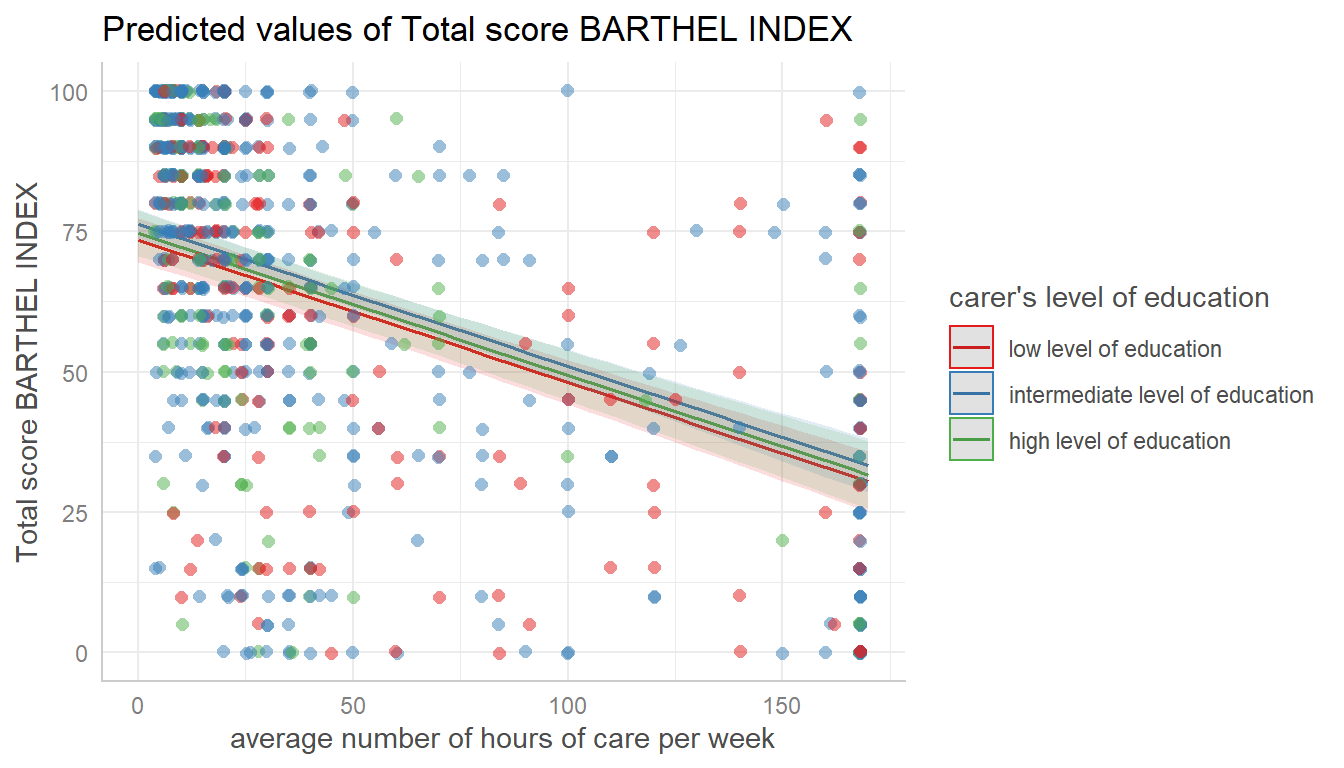
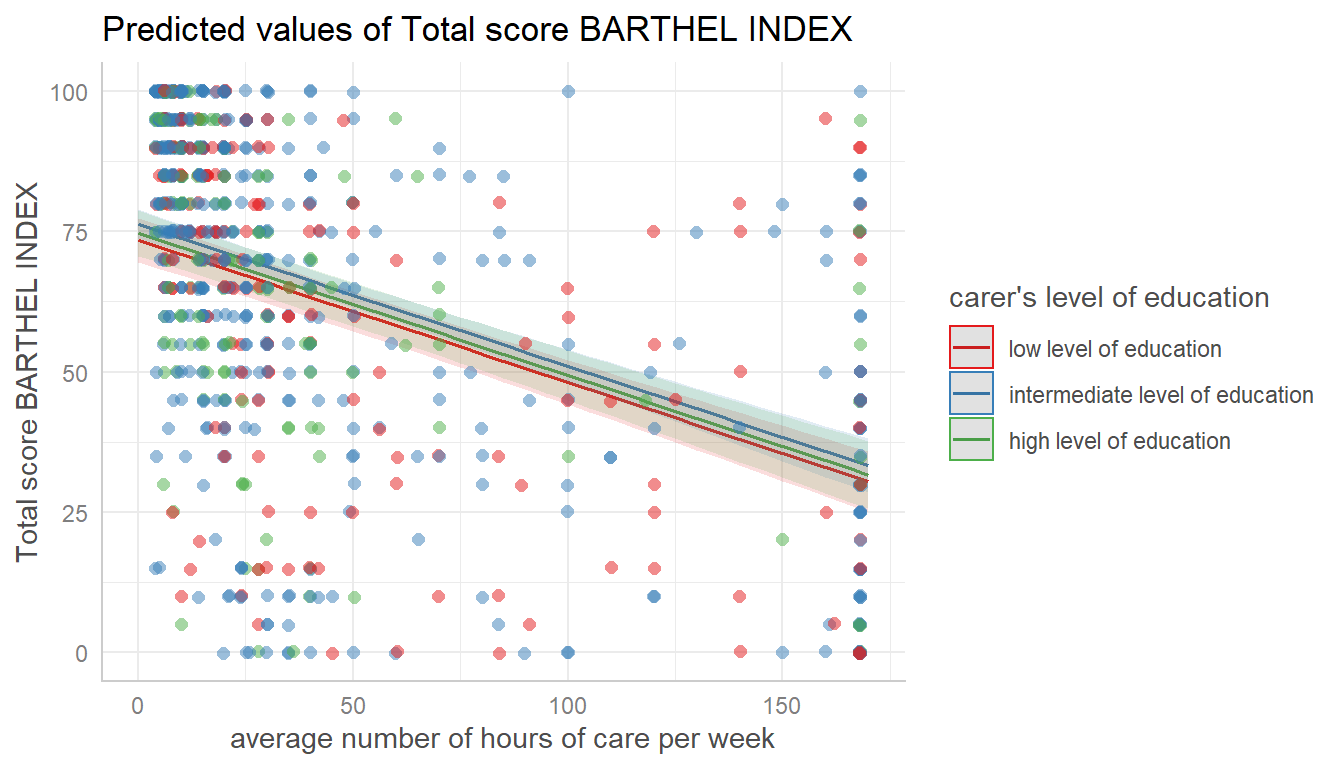
update website

diff --git a/docs/articles/introduction_randomeffects.html b/docs/articles/introduction_randomeffects.html
@@ -133,7 +133,7 @@
       <h1>Introduction: Marginal Effects for Random Effects Models</h1>
                         <h4 class="author">Daniel Lüdecke</h4>
             
-            <h4 class="date">2019-10-23</h4>
+            <h4 class="date">2019-10-28</h4>
       
       
       <div class="hidden name"><code>introduction_randomeffects.Rmd</code></div>
@@ -218,14 +218,14 @@
 <a class="sourceLine" id="cb4-4" title="4"><span class="co">#&gt; # x = Days</span></a>
 <a class="sourceLine" id="cb4-5" title="5"><span class="co">#&gt; </span></a>
 <a class="sourceLine" id="cb4-6" title="6"><span class="co">#&gt;  x predicted std.error conf.low conf.high</span></a>
-<a class="sourceLine" id="cb4-7" title="7"><span class="co">#&gt;  0   251.662    25.683  201.767   302.572</span></a>
-<a class="sourceLine" id="cb4-8" title="8"><span class="co">#&gt;  1   261.798    25.674  211.377   312.102</span></a>
-<a class="sourceLine" id="cb4-9" title="9"><span class="co">#&gt;  2   272.485    25.620  223.424   322.492</span></a>
-<a class="sourceLine" id="cb4-10" title="10"><span class="co">#&gt;  3   282.850    25.798  232.746   333.342</span></a>
-<a class="sourceLine" id="cb4-11" title="11"><span class="co">#&gt;  5   303.824    25.646  253.433   353.809</span></a>
-<a class="sourceLine" id="cb4-12" title="12"><span class="co">#&gt;  6   314.204    25.635  263.891   363.755</span></a>
-<a class="sourceLine" id="cb4-13" title="13"><span class="co">#&gt;  7   324.440    25.758  273.801   374.102</span></a>
-<a class="sourceLine" id="cb4-14" title="14"><span class="co">#&gt;  9   345.318    25.488  295.697   394.967</span></a>
+<a class="sourceLine" id="cb4-7" title="7"><span class="co">#&gt;  0   251.368    25.463  201.710   300.924</span></a>
+<a class="sourceLine" id="cb4-8" title="8"><span class="co">#&gt;  1   262.008    25.338  212.616   311.985</span></a>
+<a class="sourceLine" id="cb4-9" title="9"><span class="co">#&gt;  2   272.596    25.685  222.381   323.076</span></a>
+<a class="sourceLine" id="cb4-10" title="10"><span class="co">#&gt;  3   282.790    25.591  233.127   333.301</span></a>
+<a class="sourceLine" id="cb4-11" title="11"><span class="co">#&gt;  5   303.978    25.770  253.803   354.281</span></a>
+<a class="sourceLine" id="cb4-12" title="12"><span class="co">#&gt;  6   314.304    25.395  264.709   364.274</span></a>
+<a class="sourceLine" id="cb4-13" title="13"><span class="co">#&gt;  7   324.717    25.574  275.474   375.016</span></a>
+<a class="sourceLine" id="cb4-14" title="14"><span class="co">#&gt;  9   345.731    25.748  295.587   395.939</span></a>
 <a class="sourceLine" id="cb4-15" title="15"><span class="co">#&gt; </span></a>
 <a class="sourceLine" id="cb4-16" title="16"><span class="co">#&gt; Adjusted for:</span></a>
 <a class="sourceLine" id="cb4-17" title="17"><span class="co">#&gt; * Subject = 0 (population-level)</span></a></code></pre></div>
@@ -292,13 +292,13 @@
 <a class="sourceLine" id="cb7-4" title="4"><span class="co">#&gt; # x = spp</span></a>
 <a class="sourceLine" id="cb7-5" title="5"><span class="co">#&gt; </span></a>
 <a class="sourceLine" id="cb7-6" title="6"><span class="co">#&gt;      x predicted std.error conf.low conf.high</span></a>
-<a class="sourceLine" id="cb7-7" title="7"><span class="co">#&gt;     GP     0.138     0.045    0.046     0.230</span></a>
-<a class="sourceLine" id="cb7-8" title="8"><span class="co">#&gt;     PR     0.017     0.009    0.000     0.035</span></a>
-<a class="sourceLine" id="cb7-9" title="9"><span class="co">#&gt;     DM     0.245     0.076    0.097     0.393</span></a>
-<a class="sourceLine" id="cb7-10" title="10"><span class="co">#&gt;   EC-A     0.042     0.018    0.008     0.075</span></a>
-<a class="sourceLine" id="cb7-11" title="11"><span class="co">#&gt;   EC-L     0.374     0.117    0.152     0.596</span></a>
-<a class="sourceLine" id="cb7-12" title="12"><span class="co">#&gt;  DES-L     0.433     0.116    0.201     0.664</span></a>
-<a class="sourceLine" id="cb7-13" title="13"><span class="co">#&gt;     DF     0.205     0.061    0.088     0.322</span></a>
+<a class="sourceLine" id="cb7-7" title="7"><span class="co">#&gt;     GP     0.138     0.046    0.047     0.228</span></a>
+<a class="sourceLine" id="cb7-8" title="8"><span class="co">#&gt;     PR     0.017     0.010    0.000     0.034</span></a>
+<a class="sourceLine" id="cb7-9" title="9"><span class="co">#&gt;     DM     0.245     0.075    0.097     0.393</span></a>
+<a class="sourceLine" id="cb7-10" title="10"><span class="co">#&gt;   EC-A     0.042     0.017    0.009     0.075</span></a>
+<a class="sourceLine" id="cb7-11" title="11"><span class="co">#&gt;   EC-L     0.374     0.108    0.165     0.582</span></a>
+<a class="sourceLine" id="cb7-12" title="12"><span class="co">#&gt;  DES-L     0.433     0.117    0.205     0.661</span></a>
+<a class="sourceLine" id="cb7-13" title="13"><span class="co">#&gt;     DF     0.205     0.062    0.089     0.321</span></a>
 <a class="sourceLine" id="cb7-14" title="14"><span class="co">#&gt; </span></a>
 <a class="sourceLine" id="cb7-15" title="15"><span class="co">#&gt; Adjusted for:</span></a>
 <a class="sourceLine" id="cb7-16" title="16"><span class="co">#&gt; * mined = yes</span></a>
@@ -310,13 +310,13 @@
 <a class="sourceLine" id="cb8-4" title="4"><span class="co">#&gt; # x = spp</span></a>
 <a class="sourceLine" id="cb8-5" title="5"><span class="co">#&gt; </span></a>
 <a class="sourceLine" id="cb8-6" title="6"><span class="co">#&gt;      x predicted std.error conf.low conf.high</span></a>
-<a class="sourceLine" id="cb8-7" title="7"><span class="co">#&gt;     GP     0.138     0.235    0.029     0.361</span></a>
+<a class="sourceLine" id="cb8-7" title="7"><span class="co">#&gt;     GP     0.138     0.235    0.030     0.360</span></a>
 <a class="sourceLine" id="cb8-8" title="8"><span class="co">#&gt;     PR     0.017     0.231    0.000     0.055</span></a>
-<a class="sourceLine" id="cb8-9" title="9"><span class="co">#&gt;     DM     0.245     0.242    0.063     0.615</span></a>
-<a class="sourceLine" id="cb8-10" title="10"><span class="co">#&gt;   EC-A     0.042     0.231    0.005     0.118</span></a>
-<a class="sourceLine" id="cb8-11" title="11"><span class="co">#&gt;   EC-L     0.374     0.254    0.110     0.903</span></a>
-<a class="sourceLine" id="cb8-12" title="12"><span class="co">#&gt;  DES-L     0.433     0.262    0.121     1.061</span></a>
-<a class="sourceLine" id="cb8-13" title="13"><span class="co">#&gt;     DF     0.205     0.239    0.051     0.519</span></a>
+<a class="sourceLine" id="cb8-9" title="9"><span class="co">#&gt;     DM     0.245     0.242    0.065     0.609</span></a>
+<a class="sourceLine" id="cb8-10" title="10"><span class="co">#&gt;   EC-A     0.042     0.231    0.004     0.121</span></a>
+<a class="sourceLine" id="cb8-11" title="11"><span class="co">#&gt;   EC-L     0.374     0.256    0.107     0.910</span></a>
+<a class="sourceLine" id="cb8-12" title="12"><span class="co">#&gt;  DES-L     0.433     0.261    0.125     1.051</span></a>
+<a class="sourceLine" id="cb8-13" title="13"><span class="co">#&gt;     DF     0.205     0.238    0.059     0.498</span></a>
 <a class="sourceLine" id="cb8-14" title="14"><span class="co">#&gt; </span></a>
 <a class="sourceLine" id="cb8-15" title="15"><span class="co">#&gt; Adjusted for:</span></a>
 <a class="sourceLine" id="cb8-16" title="16"><span class="co">#&gt; * mined = yes</span></a>
@@ -328,13 +328,13 @@
 <a class="sourceLine" id="cb9-4" title="4"><span class="co">#&gt; # x = spp</span></a>
 <a class="sourceLine" id="cb9-5" title="5"><span class="co">#&gt; </span></a>
 <a class="sourceLine" id="cb9-6" title="6"><span class="co">#&gt;      x predicted std.error conf.low conf.high</span></a>
-<a class="sourceLine" id="cb9-7" title="7"><span class="co">#&gt;     GP     1.095     1.284        0     4.142</span></a>
-<a class="sourceLine" id="cb9-8" title="8"><span class="co">#&gt;     PR     0.292     0.668        0     2.295</span></a>
-<a class="sourceLine" id="cb9-9" title="9"><span class="co">#&gt;     DM     1.515     1.539        0     5.175</span></a>
-<a class="sourceLine" id="cb9-10" title="10"><span class="co">#&gt;   EC-A     0.539     0.951        0     3.077</span></a>
-<a class="sourceLine" id="cb9-11" title="11"><span class="co">#&gt;   EC-L     2.196     2.111        0     7.143</span></a>
-<a class="sourceLine" id="cb9-12" title="12"><span class="co">#&gt;  DES-L     2.276     2.066        0     7.110</span></a>
-<a class="sourceLine" id="cb9-13" title="13"><span class="co">#&gt;     DF     1.312     1.358        0     4.523</span></a>
+<a class="sourceLine" id="cb9-7" title="7"><span class="co">#&gt;     GP     1.083     1.285        0     4.110</span></a>
+<a class="sourceLine" id="cb9-8" title="8"><span class="co">#&gt;     PR     0.292     0.665        0     2.317</span></a>
+<a class="sourceLine" id="cb9-9" title="9"><span class="co">#&gt;     DM     1.520     1.546        0     5.229</span></a>
+<a class="sourceLine" id="cb9-10" title="10"><span class="co">#&gt;   EC-A     0.538     0.953        0     3.098</span></a>
+<a class="sourceLine" id="cb9-11" title="11"><span class="co">#&gt;   EC-L     2.202     2.119        0     7.110</span></a>
+<a class="sourceLine" id="cb9-12" title="12"><span class="co">#&gt;  DES-L     2.268     2.069        0     7.077</span></a>
+<a class="sourceLine" id="cb9-13" title="13"><span class="co">#&gt;     DF     1.313     1.362        0     4.611</span></a>
 <a class="sourceLine" id="cb9-14" title="14"><span class="co">#&gt; </span></a>
 <a class="sourceLine" id="cb9-15" title="15"><span class="co">#&gt; Adjusted for:</span></a>
 <a class="sourceLine" id="cb9-16" title="16"><span class="co">#&gt; * mined = yes</span></a>

diff --git a/docs/articles/ggeffects.html b/docs/articles/ggeffects.html
@@ -133,7 +133,7 @@
       <h1>ggeffects: Marginal Effects of Regression Models</h1>
                         <h4 class="author">Daniel Lüdecke</h4>
             
-            <h4 class="date">2019-10-23</h4>
+            <h4 class="date">2019-10-28</h4>
       
       
       <div class="hidden name"><code>ggeffects.Rmd</code></div>
@@ -546,22 +546,23 @@
 <p>Here are some examples, first we fit a model where two variables are factors with character factor levels (we use <code><a href="https://rdrr.io/pkg/sjmisc/man/to_label.html">sjmisc::to_label()</a></code> to convert the labelled data into factors):</p>
 <div class="sourceCode" id="cb14"><pre class="sourceCode r"><code class="sourceCode r"><a class="sourceLine" id="cb14-1" title="1"><span class="kw"><a href="https://rdrr.io/r/utils/data.html">data</a></span>(efc)</a>
 <a class="sourceLine" id="cb14-2" title="2">efc &lt;-<span class="st"> </span><span class="kw">to_label</span>(efc, c172code, c161sex)</a>
-<a class="sourceLine" id="cb14-3" title="3">m &lt;-<span class="st"> </span><span class="kw"><a href="https://rdrr.io/r/stats/lm.html">lm</a></span>(barthtot <span class="op">~</span><span class="st"> </span>c12hour <span class="op">+</span><span class="st"> </span>neg_c_<span class="dv">7</span> <span class="op">+</span><span class="st"> </span>c161sex <span class="op">+</span><span class="st"> </span>c172code, <span class="dt">data =</span> efc)</a></code></pre></div>
+<a class="sourceLine" id="cb14-3" title="3"><span class="co">#&gt; 2 variables were not found in the dataset: ..1, ..2</span></a>
+<a class="sourceLine" id="cb14-4" title="4">m &lt;-<span class="st"> </span><span class="kw"><a href="https://rdrr.io/r/stats/lm.html">lm</a></span>(barthtot <span class="op">~</span><span class="st"> </span>c12hour <span class="op">+</span><span class="st"> </span>neg_c_<span class="dv">7</span> <span class="op">+</span><span class="st"> </span>c161sex <span class="op">+</span><span class="st"> </span>c172code, <span class="dt">data =</span> efc)</a></code></pre></div>
 <p>By default, <code>x</code> is numeric, or put differently, printing the results will cause factors as <code>x</code> to become numeric…</p>
 <div class="sourceCode" id="cb15"><pre class="sourceCode r"><code class="sourceCode r"><a class="sourceLine" id="cb15-1" title="1"><span class="kw"><a href="../reference/ggpredict.html">ggpredict</a></span>(m, <span class="st">"c172code"</span>)</a>
 <a class="sourceLine" id="cb15-2" title="2"><span class="co">#&gt; </span></a>
 <a class="sourceLine" id="cb15-3" title="3"><span class="co">#&gt; # Predicted values of Total score BARTHEL INDEX</span></a>
 <a class="sourceLine" id="cb15-4" title="4"><span class="co">#&gt; # x = carer's level of education</span></a>
 <a class="sourceLine" id="cb15-5" title="5"><span class="co">#&gt; </span></a>
-<a class="sourceLine" id="cb15-6" title="6"><span class="co">#&gt;                                x predicted std.error conf.low conf.high</span></a>
-<a class="sourceLine" id="cb15-7" title="7"><span class="co">#&gt;           low level of education    62.127     2.370   57.481    66.773</span></a>
-<a class="sourceLine" id="cb15-8" title="8"><span class="co">#&gt;  intermediate level of education    65.012     1.895   61.299    68.725</span></a>
-<a class="sourceLine" id="cb15-9" title="9"><span class="co">#&gt;          high level of education    63.344     2.402   58.636    68.052</span></a>
+<a class="sourceLine" id="cb15-6" title="6"><span class="co">#&gt;  x predicted std.error conf.low conf.high</span></a>
+<a class="sourceLine" id="cb15-7" title="7"><span class="co">#&gt;  1    64.057     1.554   61.012    67.103</span></a>
+<a class="sourceLine" id="cb15-8" title="8"><span class="co">#&gt;  2    64.776     0.842   63.125    66.427</span></a>
+<a class="sourceLine" id="cb15-9" title="9"><span class="co">#&gt;  3    65.494     1.621   62.317    68.672</span></a>
 <a class="sourceLine" id="cb15-10" title="10"><span class="co">#&gt; </span></a>
 <a class="sourceLine" id="cb15-11" title="11"><span class="co">#&gt; Adjusted for:</span></a>
 <a class="sourceLine" id="cb15-12" title="12"><span class="co">#&gt; * c12hour = 42.20</span></a>
 <a class="sourceLine" id="cb15-13" title="13"><span class="co">#&gt; * neg_c_7 = 11.84</span></a>
-<a class="sourceLine" id="cb15-14" title="14"><span class="co">#&gt; * c161sex =  Male</span></a></code></pre></div>
+<a class="sourceLine" id="cb15-14" title="14"><span class="co">#&gt; * c161sex =  1.76</span></a></code></pre></div>
 <p>… unless you change this behaviour with <code>x.as.factor = TRUE</code>.</p>
 <div class="sourceCode" id="cb16"><pre class="sourceCode r"><code class="sourceCode r"><a class="sourceLine" id="cb16-1" title="1"><span class="kw"><a href="../reference/ggpredict.html">ggpredict</a></span>(m, <span class="st">"c172code"</span>, <span class="dt">x.as.factor =</span> <span class="ot">FALSE</span>)</a>
 <a class="sourceLine" id="cb16-2" title="2"><span class="co">#&gt; </span></a>
@@ -569,14 +570,14 @@
 <a class="sourceLine" id="cb16-4" title="4"><span class="co">#&gt; # x = carer's level of education</span></a>
 <a class="sourceLine" id="cb16-5" title="5"><span class="co">#&gt; </span></a>
 <a class="sourceLine" id="cb16-6" title="6"><span class="co">#&gt;  x predicted std.error conf.low conf.high</span></a>
-<a class="sourceLine" id="cb16-7" title="7"><span class="co">#&gt;  1    62.127     2.370   57.481    66.773</span></a>
-<a class="sourceLine" id="cb16-8" title="8"><span class="co">#&gt;  2    65.012     1.895   61.299    68.725</span></a>
-<a class="sourceLine" id="cb16-9" title="9"><span class="co">#&gt;  3    63.344     2.402   58.636    68.052</span></a>
+<a class="sourceLine" id="cb16-7" title="7"><span class="co">#&gt;  1    64.057     1.554   61.012    67.103</span></a>
+<a class="sourceLine" id="cb16-8" title="8"><span class="co">#&gt;  2    64.776     0.842   63.125    66.427</span></a>
+<a class="sourceLine" id="cb16-9" title="9"><span class="co">#&gt;  3    65.494     1.621   62.317    68.672</span></a>
 <a class="sourceLine" id="cb16-10" title="10"><span class="co">#&gt; </span></a>
 <a class="sourceLine" id="cb16-11" title="11"><span class="co">#&gt; Adjusted for:</span></a>
 <a class="sourceLine" id="cb16-12" title="12"><span class="co">#&gt; * c12hour = 42.20</span></a>
 <a class="sourceLine" id="cb16-13" title="13"><span class="co">#&gt; * neg_c_7 = 11.84</span></a>
-<a class="sourceLine" id="cb16-14" title="14"><span class="co">#&gt; * c161sex =  Male</span></a></code></pre></div>
+<a class="sourceLine" id="cb16-14" title="14"><span class="co">#&gt; * c161sex =  1.76</span></a></code></pre></div>
 </div>
 <div id="labelling-the-data" class="section level1">
 <h1 class="hasAnchor">

diff --git a/docs/news/index.html b/docs/news/index.html
@@ -192,6 +192,8 @@
 <li>
 <code><a href="../reference/ggpredict.html">ggpredict()</a></code> now supports models from packages <strong>bamlss</strong> and <strong>R2BayesX</strong>.</li>
 <li>Updated package dependencies.</li>
+<li>
+<code><a href="../reference/plot.html">plot()</a></code> now uses dodge-position for raw data for categorical x-axis, to align raw data points with points and error bars geoms from predictions.</li>
 </ul>
 </div>
 <div id="changes-to-functions" class="section level2">
@@ -201,6 +203,13 @@
 <li>
 <code><a href="../reference/ggpredict.html">ggemmeans()</a></code> now also accepts <code>type = "re"</code> and <code>type = "re.zi"</code>, to add random effects variances to prediction intervals for mixed models.</li>
 <li>The ellipses-argument <code>...</code> is now passed down to the <code><a href="https://rdrr.io/r/stats/predict.html">predict()</a></code>-method for <em>gamlss</em>-objects, so predictions can be computed for sigma, nu and tau as well.</li>
+</ul>
+</div>
+<div id="bug-fixes" class="section level2">
+<h2 class="hasAnchor">
+<a href="#bug-fixes" class="anchor"></a>Bug fixes</h2>
+<ul>
+<li>Fixed issue with wrong order of plot x-axis for <code><a href="../reference/ggpredict.html">ggeffect()</a></code>, when one term was a character vector.</li>
 </ul>
 </div>
 </div>
@@ -240,9 +249,9 @@
 <code>pretty_data()</code> gets a <code><a href="https://rdrr.io/r/base/length.html">length()</a></code> argument to define the length of intervals to be returned.</li>
 </ul>
 </div>
-<div id="bug-fixes" class="section level2">
+<div id="bug-fixes-1" class="section level2">
 <h2 class="hasAnchor">
-<a href="#bug-fixes" class="anchor"></a>Bug fixes</h2>
+<a href="#bug-fixes-1" class="anchor"></a>Bug fixes</h2>
 <ul>
 <li>Added “population level” to output from print-method for <em>lme</em> objects.</li>
 <li>Fixed issue with correct identification of gamm/gamm4 models.</li>
@@ -286,9 +295,9 @@
 <li>The <code>ci.style</code>-argument from <code><a href="../reference/plot.html">plot()</a></code> now also applies to error bars for categorical variables on the x-axis.</li>
 </ul>
 </div>
-<div id="bug-fixes-1" class="section level2">
+<div id="bug-fixes-2" class="section level2">
 <h2 class="hasAnchor">
-<a href="#bug-fixes-1" class="anchor"></a>Bug fixes</h2>
+<a href="#bug-fixes-2" class="anchor"></a>Bug fixes</h2>
 <ul>
 <li>Fixed issue with <em>glmmTMB</em> models that included model weights.</li>
 </ul>
@@ -326,9 +335,9 @@
 <code><a href="../reference/plot.html">plot.ggeffects()</a></code> now allows different horizontal and vertical jittering for <code>rawdata</code> when <code>jitter</code> is a numeric vector of length two.</li>
 </ul>
 </div>
-<div id="bug-fixes-2" class="section level2">
+<div id="bug-fixes-3" class="section level2">
 <h2 class="hasAnchor">
-<a href="#bug-fixes-2" class="anchor"></a>Bug fixes</h2>
+<a href="#bug-fixes-3" class="anchor"></a>Bug fixes</h2>
 <ul>
 <li>Models with <code>AsIs</code>-conversion from division of two variables as dependent variable, e.g. <code><a href="https://rdrr.io/r/base/AsIs.html">I(amount/frequency)</a></code>, now should work.</li>
 <li>
@@ -383,9 +392,9 @@
 <code><a href="../reference/plot.html">plot()</a></code> gets a <code>connect.lines</code>-argument, to connect dots from plots with discrete x-axis.</li>
 </ul>
 </div>
-<div id="bug-fixes-3" class="section level2">
+<div id="bug-fixes-4" class="section level2">
 <h2 class="hasAnchor">
-<a href="#bug-fixes-3" class="anchor"></a>Bug fixes</h2>
+<a href="#bug-fixes-4" class="anchor"></a>Bug fixes</h2>
 <ul>
 <li>
 <code><a href="../reference/ggpredict.html">ggpredict()</a></code> did not work with <strong>glmmTMB</strong>- and other zero-inflated models, when <code>type = "fe.zi"</code> and model- or zero-inflation formula had a polynomial term that was held constant (i.e. not part of the <code>terms</code>-argument).</li>
@@ -447,9 +456,9 @@
 <code>emm()</code> now also supports all prediction-types, like <code><a href="../reference/ggpredict.html">ggpredict()</a></code>.</li>
 </ul>
 </div>
-<div id="bug-fixes-4" class="section level2">
+<div id="bug-fixes-5" class="section level2">
 <h2 class="hasAnchor">
-<a href="#bug-fixes-4" class="anchor"></a>Bug fixes</h2>
+<a href="#bug-fixes-5" class="anchor"></a>Bug fixes</h2>
 <ul>
 <li>Fixed issue where confidence intervals could not be computed for variables with very small values, that differ only after the second decimal part.</li>
 <li>Fixed issue with <code><a href="../reference/ggpredict.html">ggeffect()</a></code>, which did not work if data had variables with more that 8 digits (fractional part longer than 8 numbers).</li>

diff --git a/docs/index.html b/docs/index.html
@@ -158,7 +158,7 @@
 <div id="ggeffects-supports-many-different-models-and-is-easy-to-use" class="section level2">
 <h2 class="hasAnchor">
 <a href="#ggeffects-supports-many-different-models-and-is-easy-to-use" class="anchor"></a>ggeffects supports many different models and is easy to use</h2>
-<p>Marginal effects can be calculated for many different models. Currently supported model-objects are: <code>betabin</code>, <code>betareg</code>, <code>bglmer</code>, <code>blmer</code>, <code>brglm</code>, <code>brmsfit</code>, <code>clm</code>, <code>clm2</code>, <code>clmm</code>, <code>coxph</code>, <code>gam</code> (package <strong>mgcv</strong>), <code>Gam</code> (package <strong>gam</strong>), <code>gamlss</code>, <code>gamm</code>, <code>gamm4</code>, <code>gee</code>, <code>geeglm</code>, <code>glm</code>, <code>glm.nb</code>, <code>glmer</code>, <code>glmer.nb</code>, <code>glmmTMB</code>, <code>glmmPQL</code>, <code>glmrob</code>, <code>glmRob</code>, <code>gls</code>, <code>hurdle</code>, <code>ivreg</code>, <code>lm</code>, <code>lm_robust</code>, <code>lme</code>, <code>lmer</code>, <code>lmrob</code>, <code>lmRob</code>, <code>logistf</code>, <code>lrm</code>, <code>MixMod</code>, <code>MCMCglmm</code>, <code>multinom</code>, <code>negbin</code>, <code>nlmer</code>, <code>ols</code>, <code>plm</code>, <code>polr</code>, <code>rlm</code>, <code>rlmer</code>, <code>rq</code>, <code>rqss</code>, <code>stanreg</code>, <code>survreg</code>, <code>svyglm</code>, <code>svyglm.nb</code>, <code>tobit</code>, <code>truncreg</code>, <code>vgam</code>, <code>wbm</code>, <code>zeroinfl</code> and <code>zerotrunc</code>. Other models not listed here are passed to a generic predict-function and might work as well, or maybe with <code><a href="reference/ggpredict.html">ggeffect()</a></code> or <code><a href="reference/ggpredict.html">ggemmeans()</a></code>, which effectively do the same as <code><a href="reference/ggpredict.html">ggpredict()</a></code>.</p>
+<p>Marginal effects can be calculated for many different models. Currently supported model-objects are: <code>bamlss</code>, <code>bayesx</code>, <code>betabin</code>, <code>betareg</code>, <code>bglmer</code>, <code>blmer</code>, <code>brglm</code>, <code>brmsfit</code>, <code>clm</code>, <code>clm2</code>, <code>clmm</code>, <code>coxph</code>, <code>gam</code> (package <strong>mgcv</strong>), <code>Gam</code> (package <strong>gam</strong>), <code>gamlss</code>, <code>gamm</code>, <code>gamm4</code>, <code>gee</code>, <code>geeglm</code>, <code>glm</code>, <code>glm.nb</code>, <code>glmer</code>, <code>glmer.nb</code>, <code>glmmTMB</code>, <code>glmmPQL</code>, <code>glmrob</code>, <code>glmRob</code>, <code>gls</code>, <code>hurdle</code>, <code>ivreg</code>, <code>lm</code>, <code>lm_robust</code>, <code>lme</code>, <code>lmer</code>, <code>lmrob</code>, <code>lmRob</code>, <code>logistf</code>, <code>lrm</code>, <code>MixMod</code>, <code>MCMCglmm</code>, <code>multinom</code>, <code>negbin</code>, <code>nlmer</code>, <code>ols</code>, <code>plm</code>, <code>polr</code>, <code>rlm</code>, <code>rlmer</code>, <code>rq</code>, <code>rqss</code>, <code>stanreg</code>, <code>survreg</code>, <code>svyglm</code>, <code>svyglm.nb</code>, <code>tobit</code>, <code>truncreg</code>, <code>vgam</code>, <code>wbm</code>, <code>zeroinfl</code> and <code>zerotrunc</code>. Other models not listed here are passed to a generic predict-function and might work as well, or maybe with <code><a href="reference/ggpredict.html">ggeffect()</a></code> or <code><a href="reference/ggpredict.html">ggemmeans()</a></code>, which effectively do the same as <code><a href="reference/ggpredict.html">ggpredict()</a></code>.</p>
 <p>Interaction terms, splines and polynomial terms are also supported. The main functions are <code><a href="reference/ggpredict.html">ggpredict()</a></code>, <code><a href="reference/ggpredict.html">ggemmeans()</a></code> and <code><a href="reference/ggpredict.html">ggeffect()</a></code>. There is a generic <code><a href="reference/plot.html">plot()</a></code>-method to plot the results using <strong>ggplot2</strong>.</p>
 </div>
 <div id="examples" class="section level2">

diff --git a/docs/articles/technical_differencepredictemmeans.html b/docs/articles/technical_differencepredictemmeans.html
@@ -133,7 +133,7 @@
       <h1>Technical Details: Difference between ggpredict() and ggemmeans()</h1>
                         <h4 class="author">Daniel Lüdecke</h4>
             
-            <h4 class="date">2019-10-23</h4>
+            <h4 class="date">2019-10-28</h4>
       
       
       <div class="hidden name"><code>technical_differencepredictemmeans.Rmd</code></div>

diff --git a/docs/articles/practical_logisticmixedmodel.html b/docs/articles/practical_logisticmixedmodel.html
@@ -133,7 +133,7 @@
       <h1>Practical example: Logistic Mixed Effects Model with Interaction Term</h1>
                         <h4 class="author">Daniel Lüdecke</h4>
             
-            <h4 class="date">2019-10-23</h4>
+            <h4 class="date">2019-10-28</h4>
       
       
       <div class="hidden name"><code>practical_logisticmixedmodel.Rmd</code></div>

diff --git a/docs/articles/technical_stata.html b/docs/articles/technical_stata.html
@@ -133,7 +133,7 @@
       <h1>Technical Details: Different Output between Stata and ggeffects</h1>
                         <h4 class="author">Daniel Lüdecke</h4>
             
-            <h4 class="date">2019-10-23</h4>
+            <h4 class="date">2019-10-28</h4>
       
       
       <div class="hidden name"><code>technical_stata.Rmd</code></div>

diff --git a/docs/articles/introduction_effectsatvalues.html b/docs/articles/introduction_effectsatvalues.html
@@ -133,7 +133,7 @@
       <h1>Introduction: Marginal Effects at Specific Values</h1>
                         <h4 class="author">Daniel Lüdecke</h4>
             
-            <h4 class="date">2019-10-23</h4>
+            <h4 class="date">2019-10-28</h4>
       
       
       <div class="hidden name"><code>introduction_effectsatvalues.Rmd</code></div>

diff --git a/docs/articles/introduction_plotcustomize.html b/docs/articles/introduction_plotcustomize.html
@@ -133,7 +133,7 @@
       <h1>Introduction: Customize Plot Appearance</h1>
                         <h4 class="author">Daniel Lüdecke</h4>
             
-            <h4 class="date">2019-10-23</h4>
+            <h4 class="date">2019-10-28</h4>
       
       
       <div class="hidden name"><code>introduction_plotcustomize.Rmd</code></div>

diff --git a/docs/articles/introduction_plotmethod.html b/docs/articles/introduction_plotmethod.html
@@ -133,7 +133,7 @@
       <h1>Introduction: Plotting Marginal Effects</h1>
                         <h4 class="author">Daniel Lüdecke</h4>
             
-            <h4 class="date">2019-10-23</h4>
+            <h4 class="date">2019-10-28</h4>
       
       
       <div class="hidden name"><code>introduction_plotmethod.Rmd</code></div>
